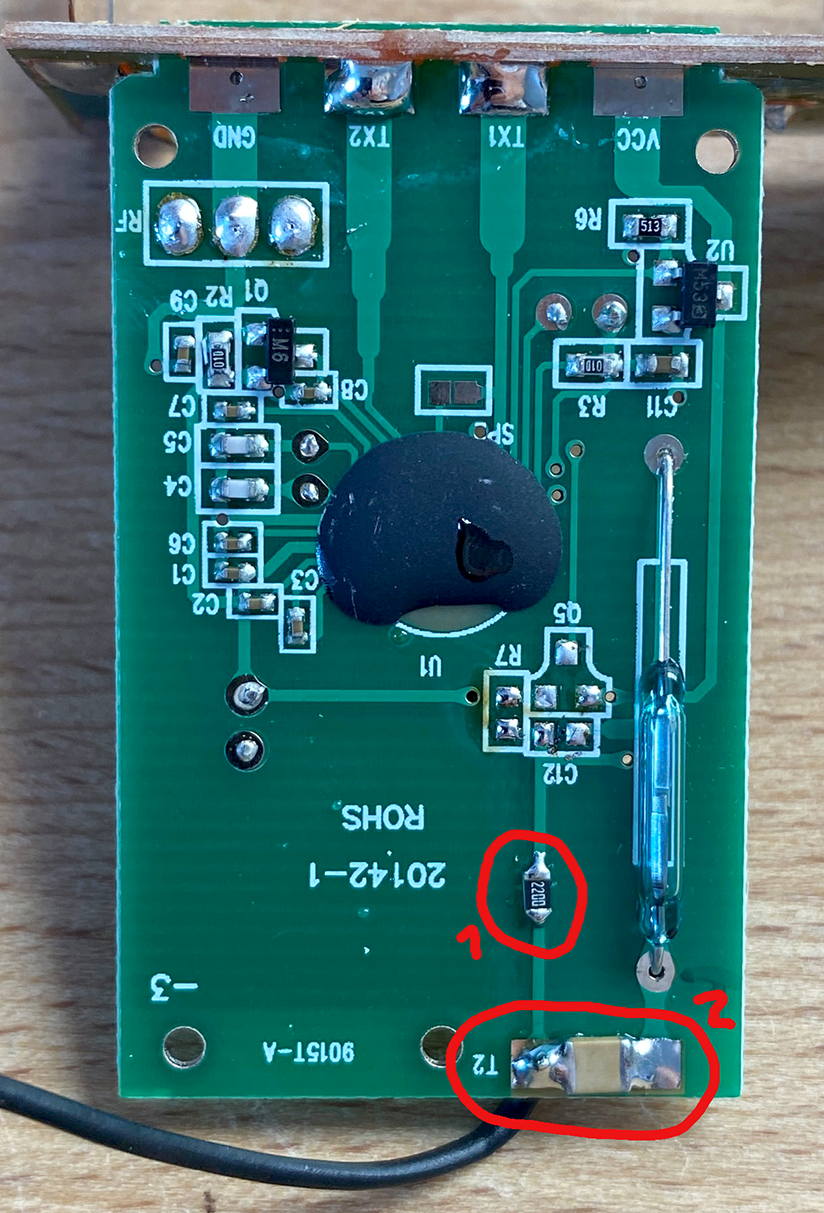
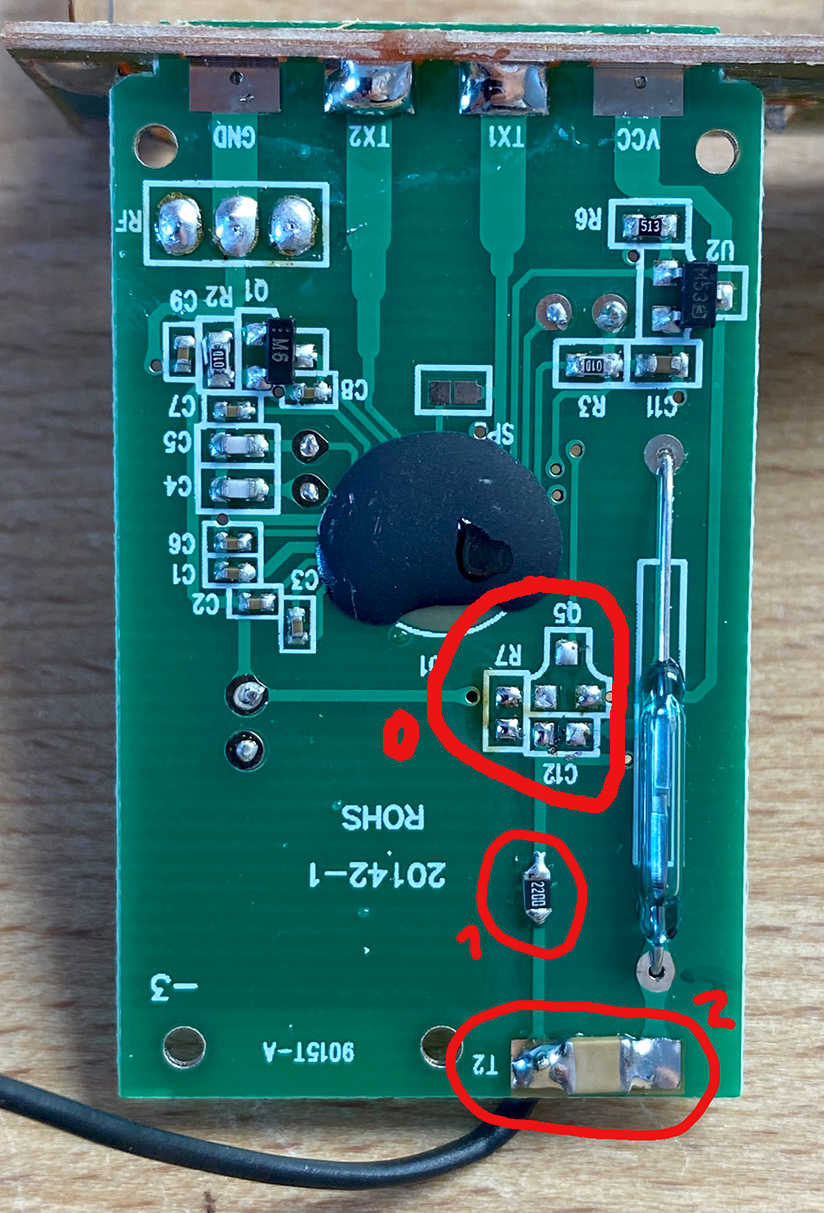
Readme updated

Changed region(s): [[0.4551, 0.4575, 0.7888, 0.6711]]

diff --git a/README.md b/README.md
@@ -28,8 +28,11 @@ Auf der Platine mit den Batteriekontakten wird die Vcc-Leiterbahn gemaess der Ma
 
 ### Schritt 2: Originalplatine anpassen
 
-Zuerst sollten Q5, C7 und R12 zur Sicherheit entfernt werden, deren Funktion habe ich nicht weiter untersucht, sie sind jedoch mit dem Reedkontakt verbunden.
-Zum Entprellen des Reedkontaktes wird ein Tiefpass auf der Platine mit dem Reedkontakt integriert. Dazu wird zunaechst die Leiterbahn unter dem im Ursprungszustand nicht vorhandenen 220R-Widerstand im Bild bei Markierung 1 durchtrennt und sodann ein solcher Widerstand eingeloetet, der exakte Widerstandswert ist eher unkritisch. Danach wird bei Markierung 2 ein Kondensator von ca. 100nF eingeloetet, Bauform 1206 passt perfekt. Am mit T2 markierten Loetauge wird eine Litze fuer den Anschluss der AskSinPP-Platine angeloetet.
+Zuerst sollten Q5, C7 und R12 zur Sicherheit entfernt werden, deren Funktion habe ich nicht weiter untersucht, sie sind jedoch mit dem Reedkontakt verbunden (Markierung 0 im Bild).
+
+Zum Entprellen des Reedkontaktes wird sodann ein Tiefpass auf der Platine mit dem Reedkontakt integriert. Dazu wird zunaechst die Leiterbahn unter dem im Ursprungszustand nicht vorhandenen 220R-Widerstand im Bild bei Markierung 1 durchtrennt und sodann ein solcher Widerstand eingeloetet, der exakte Widerstandswert ist eher unkritisch. Danach wird bei Markierung 2 ein Kondensator von ca. 100nF eingeloetet, Bauform 1206 passt perfekt.
+
+Am mit T2 markierten Loetauge wird zuletzt eine Litze fuer den Anschluss der AskSinPP-Platine angeloetet.
 
 ![Entprellen](Images/debouncing.png)
 
